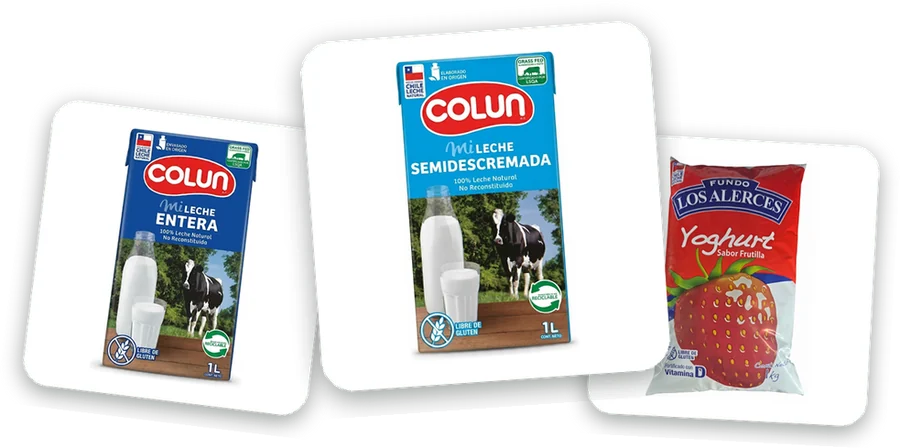
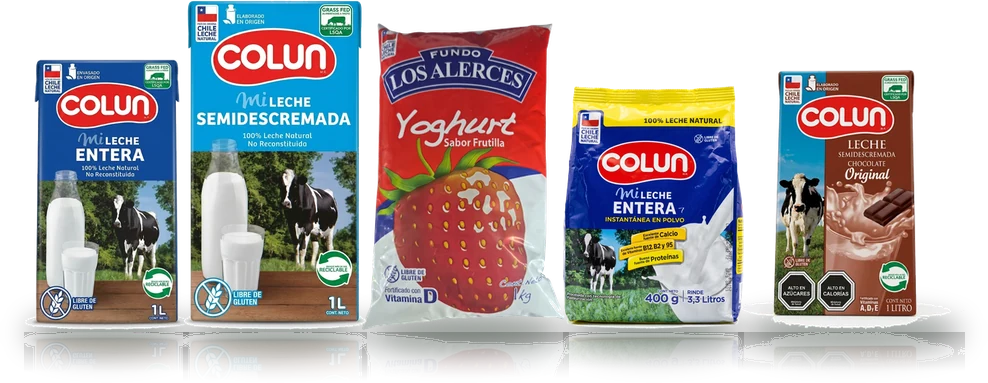
Rediseñar los slides: composicion en bloques y escenas de estudio
El carrusel se veia plano: un degradado con las fotos flotando sobre
tarjetas blancas. Se reemplaza por la estructura que usan los banners de
supermercado: bloque de color con volanta, titulo grande y boton, y al lado
un panel claro donde los productos se apoyan sobre una superficie.

Las escenas se generan recortando el fondo con relleno por inundacion DESDE
EL BORDE, no por umbral de brillo. Es la diferencia que importa: varios
productos son blancos (cajas de leche, botellas de cloro) y un umbral les
abre agujeros en el medio. Ademas se les agrega sombra de contacto y un
reflejo corto, que es lo que hace que se vean apoyados y no pegados.

Cada producto se escala por alto PERO topando el ancho. Sin el tope, una lata
chata de sardinas estirada al alto de un tarro quedaba enorme y se comia la
escena.

Dos bugs que aparecieron al mirarlo en un navegador de verdad:

 - El boton salia blanco sin texto. Las clases de Tailwind que solo aparecen
   dentro de plantillas de JavaScript no quedan en tailwind.css porque el
   purgado no las ve, asi que text-cyan-700 no existia y el texto heredaba el
   blanco del bloque. Los colores del boton pasan a estilo inline.

 - El bloque de texto se encogia hasta el padding: como item flexible cedia
   ante el ancho intrinseco de la imagen. Va con flex:0 0 46% y la escena con
   flex:1 1 0 y min-width:0.

La lamina de ofertas muestra la foto del producto marcado como tarjeta y el
[…]

diff --git a/index.html b/index.html
@@ -196,8 +196,48 @@ html{scroll-behavior:smooth;}
 
 /* ── BANNER ── */
 #banner-track{display:flex;transition:transform .5s ease;}
-.banner-img{max-height:232px;width:auto;object-fit:contain;filter:drop-shadow(0 10px 22px rgba(0,0,0,.28));}
-@media(max-width:640px){.banner-img{max-height:124px;}}
+/* ── Slides del carrusel ──────────────────────────────────────────────
+   Composición en dos bloques, como los banners de supermercado: a la
+   izquierda un bloque de color con el mensaje, a la derecha un panel claro
+   donde los productos se apoyan sobre una superficie con sombra y reflejo.
+   Antes era un degradado con un emoji gigante al costado. */
+.slide-inner{display:flex;background:#f2f4f3;position:relative;overflow:hidden;}
+.slide-txt{flex:0 0 46%;display:flex;flex-direction:column;justify-content:center;
+  padding:26px 20px 26px 34px;position:relative;z-index:2;
+  box-shadow:14px 0 26px rgba(0,0,0,.16);}
+.slide-kicker{font-size:10px;font-weight:700;letter-spacing:.18em;
+  text-transform:uppercase;opacity:.82;margin-bottom:7px;}
+.slide-h2{font-size:41px;font-weight:900;line-height:.9;letter-spacing:-.025em;}
+.slide-rule{display:block;width:46px;height:4px;border-radius:2px;
+  background:#facc15;margin:11px 0 15px;}
+.slide-esc{flex:1 1 0;min-width:0;display:flex;align-items:flex-end;
+  justify-content:center;overflow:hidden;padding:0 4px 10px 8px;position:relative;}
+.slide-esc img{max-height:250px;max-width:100%;width:auto;object-fit:contain;object-position:bottom;}
+.slide-esc .svg-furgon{max-height:196px;width:auto;margin-bottom:14px;}
+@media(max-width:640px){.slide-esc .svg-furgon{max-height:112px;margin-bottom:8px}}
+/* Bloque de precio de la lámina de ofertas */
+/* La foto del producto en oferta es cuadrada con fondo blanco: sobre el panel
+   gris se veia un recuadro suelto, asi que se la trata como tarjeta a proposito. */
+.slide-oferta{background:#fff;border-radius:20px;padding:10px;margin-bottom:12px;
+  box-shadow:0 12px 28px rgba(0,0,0,.16);}
+.slide-oferta img{max-height:190px;display:block;}
+@media(max-width:640px){.slide-oferta{border-radius:12px;padding:6px;margin-bottom:8px}
+  .slide-oferta img{max-height:112px}}
+.slide-precio{position:absolute;right:16px;top:50%;transform:translateY(-50%);
+  background:#facc15;color:#1f2937;border-radius:16px;padding:10px 16px;
+  text-align:center;box-shadow:0 10px 24px rgba(0,0,0,.3);z-index:3;}
+.slide-precio b{display:block;font-size:30px;font-weight:900;line-height:1;letter-spacing:-.03em;}
+.slide-precio span{display:block;font-size:9px;font-weight:800;text-transform:uppercase;letter-spacing:.1em;}
+@media(max-width:900px){.slide-h2{font-size:30px}.slide-precio b{font-size:23px}}
+@media(max-width:640px){
+  .slide-txt{flex:0 0 57%;padding:16px 8px 16px 18px;}
+  .slide-h2{font-size:21px}
+  .slide-rule{width:30px;height:3px;margin:7px 0 10px}
+  .slide-esc img{max-height:148px}
+  .slide-precio{right:6px;padding:6px 9px;border-radius:11px}
+  .slide-precio b{font-size:16px}
+  .slide-precio span{font-size:7px}
+}
 
 /* ── SKELETON LOADING ── */
 @keyframes pulse{0%,100%{opacity:1}50%{opacity:.4}}
@@ -2893,34 +2933,34 @@ const SLIDES = [
   // cartel prometiendo un valor distinto al que se cobra.
   { ofertas:true, kicker:'Ofertas de la semana', titulo:'OFERTAS<br>SALVADORAS',
     grad:'linear-gradient(135deg,#b91c1c,#ef4444)',
-    btn:'bg-amarillo text-gray-900', cta:'Ver ofertas →', destino:['ofertas','Ofertas'] },
+    btn:'background:#facc15;color:#1f2937', cta:'Ver ofertas →', destino:['ofertas','Ofertas'] },
 
   { cat:'lacteos', kicker:'Lo mejor del campo', titulo:'LÁCTEOS<br>FRESCOS',
     img:'./banner-lacteos.webp', grad:'linear-gradient(135deg,#065f46,#10b981)',
-    btn:'bg-white text-emerald-700', cta:'Ver lácteos →', destino:['lacteos','Lácteos'] },
+    btn:'background:#fff;color:#047857', cta:'Ver lácteos →', destino:['lacteos','Lácteos'] },
 
   { despacho:true, kicker:'Toda Valdivia', titulo:'DESPACHO<br>A DOMICILIO',
     grad:'linear-gradient(135deg,#15803d,#166534)',
-    btn:'bg-amarillo text-gray-900', cta:'Ver productos →', destino:['todos','Todos los productos'] },
+    btn:'background:#facc15;color:#1f2937', cta:'Ver productos →', destino:['todos','Todos los productos'] },
 
   { cat:'despensa', kicker:'Para la semana', titulo:'DESPENSA<br>COMPLETA',
     img:'./banner-despensa.webp', grad:'linear-gradient(135deg,#16a34a,#22c55e)',
-    btn:'bg-amarillo text-gray-900', cta:'Ver despensa →', destino:['despensa','Despensa'] },
+    btn:'background:#facc15;color:#1f2937', cta:'Ver despensa →', destino:['despensa','Despensa'] },
 
   { cat:'aseo', kicker:'Rinde más', titulo:'LIMPIEZA<br>Y ASEO',
     img:'./banner-aseo.webp', grad:'linear-gradient(135deg,#0e7490,#06b6d4)',
-    btn:'bg-white text-cyan-700', cta:'Ver limpieza →', destino:['aseo','Limpieza y Aseo'] },
+    btn:'background:#fff;color:#0e7490', cta:'Ver limpieza →', destino:['aseo','Limpieza y Aseo'] },
 
   { cat:'panaderia', kicker:'Para pasteleras y panaderías', titulo:'INSUMOS DE<br>PASTELERÍA',
     img:'./banner-pasteleria.webp', grad:'linear-gradient(135deg,#92400e,#d97706)',
-    btn:'bg-white text-amber-800', cta:'Ver insumos →', destino:['panaderia','Panadería'] },
+    btn:'background:#fff;color:#92400e', cta:'Ver insumos →', destino:['panaderia','Panadería'] },
 ];
 
 // Furgón dibujado, no fotografiado: no hay ninguna foto de despacho en la
 // carpeta del comercio y no corresponde poner una de archivo haciéndola pasar
 // por el reparto propio. Cuando haya una foto real del furgón, reemplaza esto.
 const SVG_DESPACHO = `
-<svg viewBox="0 0 260 150" class="banner-img" role="img" aria-label="Despacho a domicilio">
+<svg viewBox="0 0 260 150" class="svg-furgon" role="img" aria-label="Despacho a domicilio">
   <g fill="none" stroke="rgba(255,255,255,.35)" stroke-width="7" stroke-linecap="round">
     <path d="M8 44h34M8 68h20M8 92h30"/>
   </g>
@@ -2949,29 +2989,30 @@ function pintarBanners(){
     !completo  || DB.some(p => p.c === s.cat));
   if (!vivos.length) return;
 
-  // Hasta tres productos en oferta, con su precio real del catálogo.
-  const tarjetasOferta = ofertas.slice(0, 3).map(p => `
-    <div style="background:#fff;border-radius:20px;padding:10px 10px 6px;box-shadow:0 10px 22px rgba(0,0,0,.28);text-align:center;width:112px">
-      <img src="${p.img}" alt="" style="width:100%;height:78px;object-fit:contain" loading="lazy">
-      <p style="font-size:9px;line-height:1.15;color:#374151;font-weight:600;margin:4px 0 2px;height:22px;overflow:hidden">${p.n}</p>
-      <p style="font-size:13px;font-weight:900;color:#b91c1c">$${p.p.toLocaleString('es-CL')}</p>
-    </div>`).join('');
 
   TOT = vivos.length;
   const ancho = 100 / TOT;
   track.style.width = (100 * TOT) + '%';
 
+  // La lámina de ofertas muestra el primer producto marcado con su precio real
+  // del catálogo, en grande. Sin columna de precio anterior no hay tachado ni
+  // "ahorro": se anuncia el precio que efectivamente cobra el carrito.
+  const dest = ofertas[0];
+
   track.innerHTML = vivos.map((s, i) => `
-    <div class="slide-inner" style="width:${ancho}%;float:left;height:260px;background:${s.grad};display:flex;align-items:center;padding:30px 40px;gap:12px">
-      <div class="text-white flex-1 min-w-0">
-        <p class="text-[10px] sm:text-sm font-semibold uppercase tracking-widest opacity-80 mb-1">${s.kicker}</p>
-        <h2 class="text-2xl sm:text-5xl font-black leading-none mb-2 sm:mb-4">${s.titulo}</h2>
-        <button onclick="verCat('${s.destino[0]}','${s.destino[1]}')" class="${s.btn} font-bold px-4 py-2 sm:px-6 sm:py-2.5 rounded-full text-xs sm:text-sm hover:brightness-95 transition-all">${s.cta}</button>
+    <div class="slide-inner" style="width:${ancho}%;float:left;height:260px">
+      <div class="slide-txt text-white" style="background:${s.grad}">
+        <p class="slide-kicker">${s.kicker}</p>
+        <h2 class="slide-h2">${s.titulo}</h2>
+        <span class="slide-rule"></span>
+        <button onclick="verCat('${s.destino[0]}','${s.destino[1]}')" style="${s.btn}"
+                class="font-bold px-4 py-2 sm:px-5 sm:py-2.5 rounded-full text-[11px] sm:text-sm w-fit hover:brightness-95 transition-all">${s.cta}</button>
       </div>
-      <div class="ml-auto flex-shrink-0 flex items-center justify-end" style="max-width:52%">
-        ${s.ofertas  ? `<div style="display:flex;gap:8px;align-items:center">${tarjetasOferta}</div>`
+      <div class="slide-esc">
+        ${s.ofertas  ? `<div class="slide-oferta"><img src="${dest.img}" alt=""></div>
+                        <div class="slide-precio"><span>Oferta</span><b>$${dest.p.toLocaleString('es-CL')}</b></div>`
          : s.despacho ? SVG_DESPACHO
-                      : `<img src="${s.img}" alt="" class="banner-img"
+                      : `<img src="${s.img}" alt=""
                              ${i === 0 ? 'fetchpriority="high"' : 'loading="lazy"'}>`}
       </div>
     </div>`).join('');
